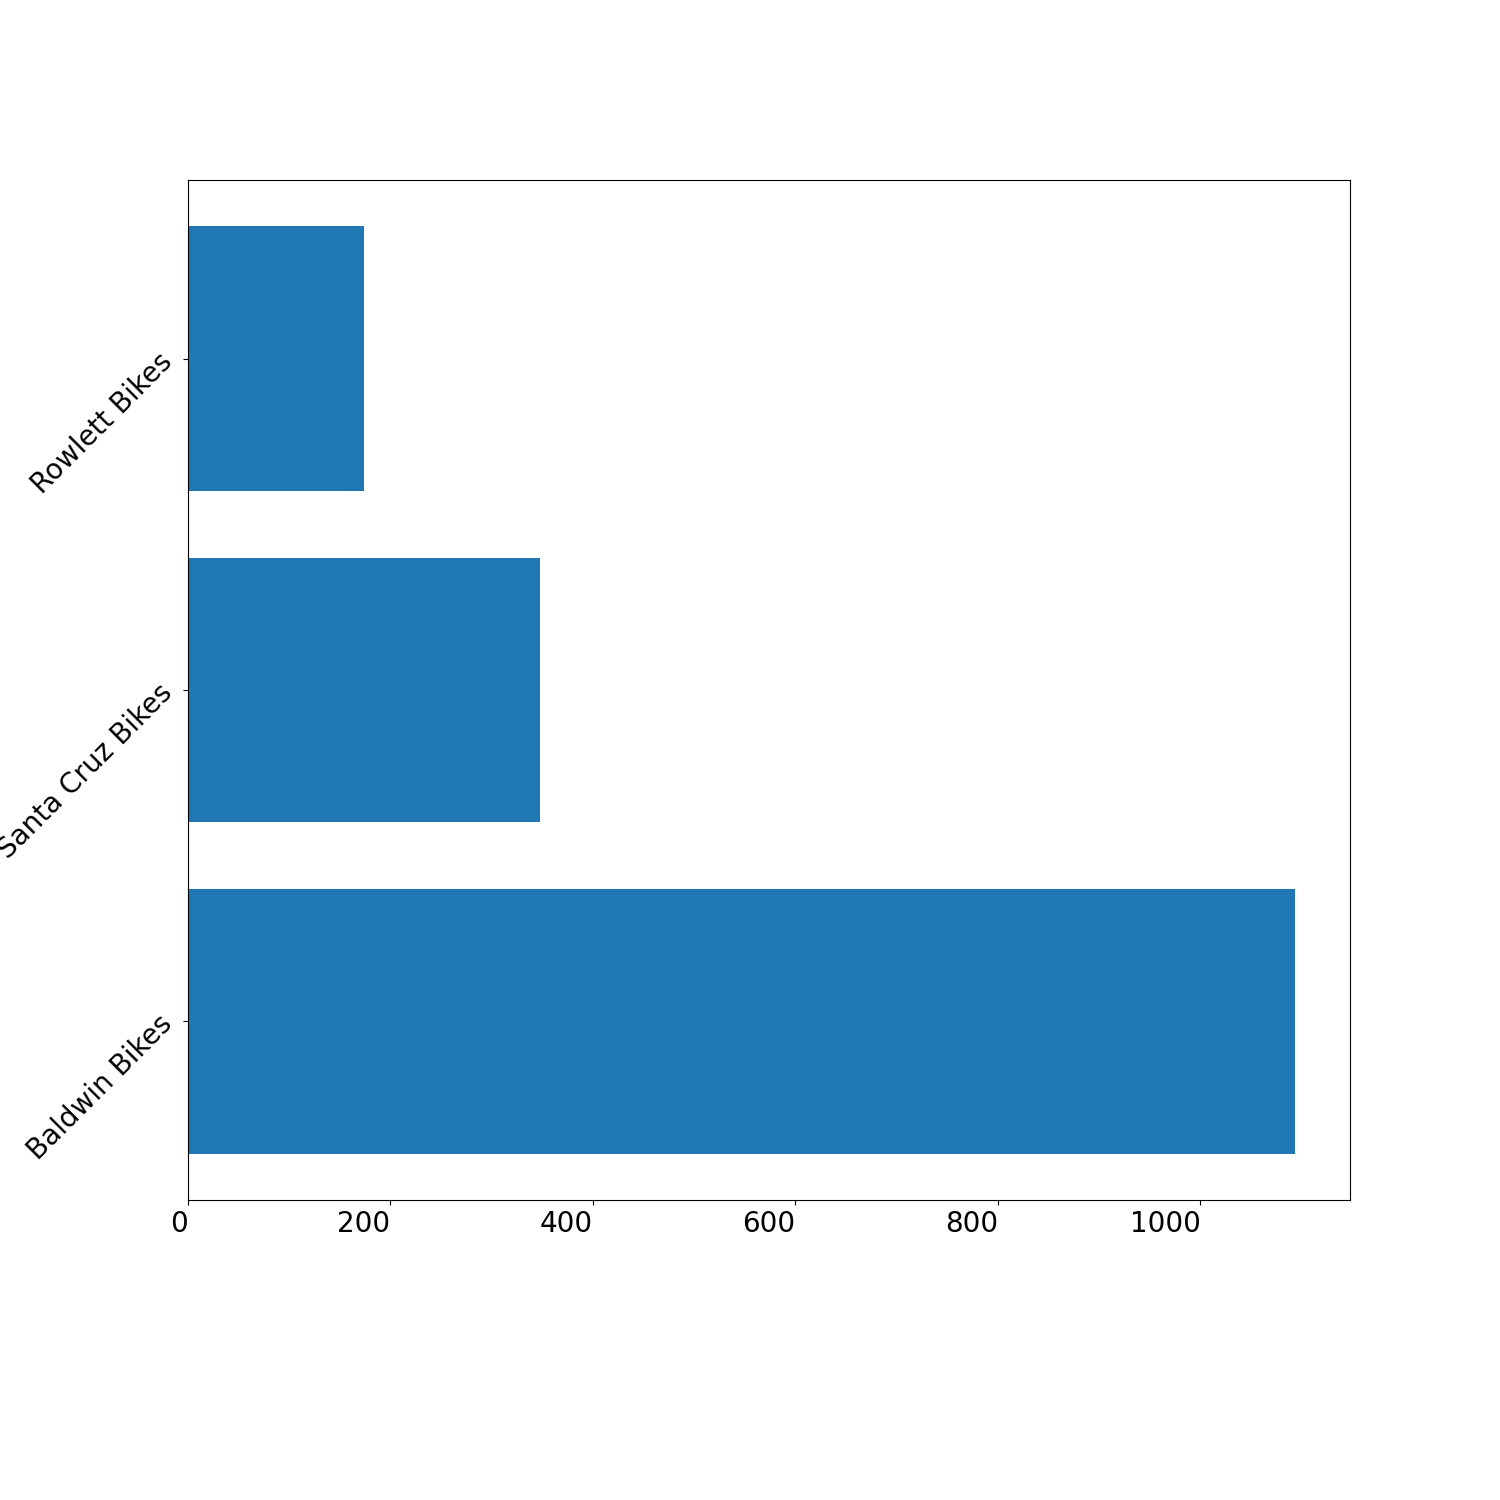
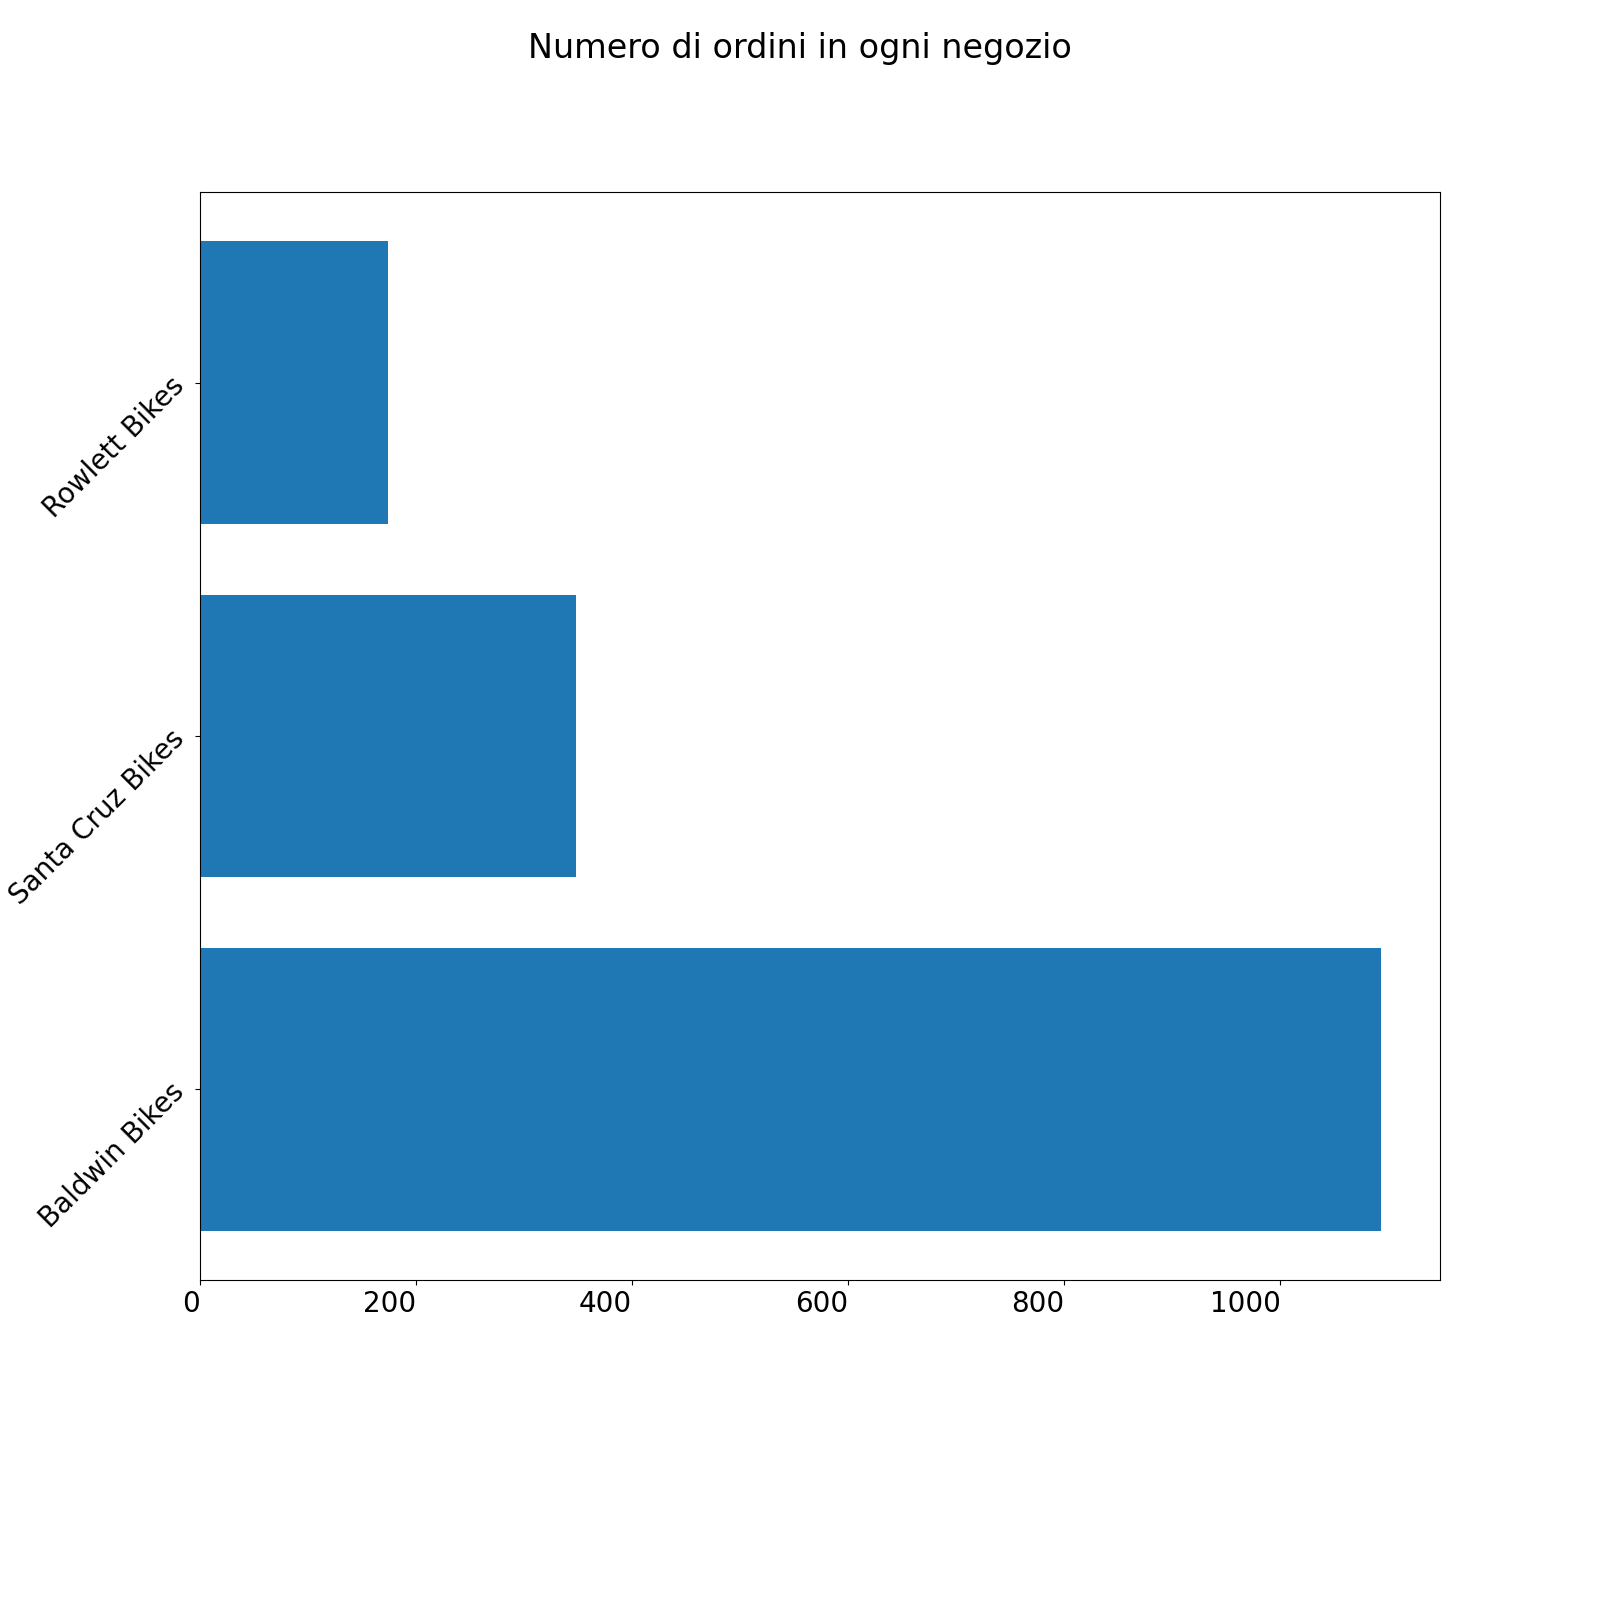
Aggiornamento

diff --git a/templates/Esercizio2/Search_Negozio.html b/templates/Esercizio2/Search_Negozio.html
@@ -10,13 +10,16 @@
 </head>
 <body class="bg-success">
     <div class="container-fluid">
-            <form action="/result_Name" method="get">
+            <img class="col-4" src={{url1}} alt="Chart" height="auto" >
+
+            <form action="/result_Negozio" method="get">
                 <div class="mb-3 mt-3">
-                    <label for="NomeProdotto" class="form-label">Nome Del Prodotto:</label>
-                    <input type="text" class="form-control" id="NomeProdotto" placeholder="Inserisci il Nome del Prodotto" name="NomeProdotto">
+                    <label for="NomeNegozio" class="form-label">Nome Del negozio:</label>
+                    <input type="text" class="form-control" id="NomeNegozio" placeholder="Inserisci il Nome del Negozio" name="NomeNegozio">
                 </div>
                 <input type="submit" value="Ricerca">
             </form>
+        </div>
     </div>
 </body>
 </html>

diff --git a/templates/Esercizio2/Search_Brand.html b/templates/Esercizio2/Search_Brand.html
@@ -10,13 +10,16 @@
 </head>
 <body class="bg-success">
     <div class="container-fluid">
-            <form action="/result_Name" method="get">
+            <img class="col-4" src={{url2}} alt="Chart" height="auto" >
+
+            <form action="/result_Brand" method="get">
                 <div class="mb-3 mt-3">
-                    <label for="NomeProdotto" class="form-label">Nome Del Prodotto:</label>
-                    <input type="text" class="form-control" id="NomeProdotto" placeholder="Inserisci il Nome del Prodotto" name="NomeProdotto">
+                    <label for="NomeBrand" class="form-label">Nome Del brand:</label>
+                    <input type="text" class="form-control" id="NomeBrand" placeholder="Inserisci il Nome del Brand" name="NomeBrand">
                 </div>
                 <input type="submit" value="Ricerca">
             </form>
+        </div>
     </div>
 </body>
 </html>

diff --git a/templates/Esercizio2/result_Brand.html b/templates/Esercizio2/result_Brand.html
@@ -1,0 +1,29 @@
+<!DOCTYPE html>
+<html lang="en">
+<head>
+    <meta charset="UTF-8">
+    <meta http-equiv="X-UA-Compatible" content="IE=edge">
+    <meta name="viewport" content="width=device-width, initial-scale=1.0">
+    <title>Document</title>
+    <link href="https://cdn.jsdelivr.net/npm/bootstrap@5.2.1/dist/css/bootstrap.min.css" rel="stylesheet">
+
+</head>
+<body>
+    <table class="table">
+        <tr>
+            {% for col in nomiColonne %}
+                <th>{{col}}</th>
+            {% endfor %}
+        </tr>
+        {% for record in dati %}
+            <tr>
+                {% for index in range(nomiColonne|length) %}
+                    <td>
+                        {{record[index]}}
+                    </td>
+                {% endfor %}
+            </tr>
+        {% endfor %}
+    </table>
+</body>
+</html>

diff --git a/templates/Esercizio2/result_Negozio.html b/templates/Esercizio2/result_Negozio.html
@@ -1,0 +1,28 @@
+<!DOCTYPE html>
+<html lang="en">
+<head>
+    <meta charset="UTF-8">
+    <meta http-equiv="X-UA-Compatible" content="IE=edge">
+    <meta name="viewport" content="width=device-width, initial-scale=1.0">
+    <title>Document</title>
+    <link href="https://cdn.jsdelivr.net/npm/bootstrap@5.2.1/dist/css/bootstrap.min.css" rel="stylesheet">
+
+</head>
+<body>
+    <table class="table">
+        <tr>
+            {% for col in nomiColonne %}
+                <th>{{col}}</th>
+            {% endfor %}
+        </tr>
+        {% for record in dati %}
+            <tr>
+                {% for index in range(nomiColonne|length) %}
+                    <td>
+                        {{record[index]}}
+                    </td>
+                {% endfor %}
+            </tr>
+        {% endfor %}
+    </table>
+</body>

diff --git a/templates/Esercizio2/Search_Category.html b/templates/Esercizio2/Search_Category.html
@@ -10,12 +10,12 @@
 </head>
 <body class="bg-success">
     <div class="container-fluid">
-            <img class="col-4" src={{url}} alt="Chart" height="auto">
+            <img class="col-4" src={{url}} alt="Chart" height="auto" >
 
             <form action="/result_Category" method="get">
                 <div class="mb-3 mt-3">
                     <label for="NomeCategory" class="form-label">Nome Della categoria:</label>
-                    <input type="text" class="form-control" id="NomeCategoty" placeholder="Inserisci il Nome della categoria" name="NomeCategory">
+                    <input type="text" class="form-control" id="NomeCategory" placeholder="Inserisci il Nome della categoria" name="NomeCategory">
                 </div>
                 <input type="submit" value="Ricerca">
             </form>

diff --git a/templates/Esercizio2/Cerca.html b/templates/Esercizio2/Cerca.html
@@ -20,8 +20,8 @@
         <label for="NomeProdotto" class="form-label">Nome Del Prodotto:</label>
         <input type="radio" name="Cerca" id="NomeProdotto" value="NomeProdotto">
         <br>
-        <label for="NomeCategoty" class="form-label">Nome Della Categoria:</label>
-        <input type="radio" name="Cerca" id="NomeCategoty" value="NomeCategoty">
+        <label for="NomeCategory" class="form-label">Nome Della Categoria:</label>
+        <input type="radio" name="Cerca" id="NomeCategory" value="NomeCategory">
         <br>
         <label for="NomeNegozio" class="form-label">Nome Del Negozio:</label>
         <input type="radio" name="Cerca" id="NomeNegozio" value="NomeNegozio">

diff --git a/App2.py b/App2.py
@@ -25,21 +25,23 @@ def home():
     df = pd.read_sql(query,conn)
     names = list(df['Category_Name'])
     values = list(df['Numero_Prodotti'])
-    fig1 = plt.figure(figsize=[15,15])
+    fig1 = plt.figure(figsize=[16,16])
     ax = plt.axes()
     ax.bar(names, values)
     fig1.autofmt_xdate(rotation=45) 
+    fig1.suptitle('Categorie di ogni prodotto', color='k')
     plt.savefig('static/images/plot.png')
 
     query1 = 'Select Store_Name, Count(*) as Numero_Ordini from Sales.Stores inner join Sales.Orders on Sales.Stores.Store_id = Sales.Orders.Store_id group by Sales.Orders.Store_id,Sales.Stores.Store_name order by Numero_Ordini desc'
     df1 = pd.read_sql(query1,conn)
     names = list(df1['Store_Name'])
     values = list(df1['Numero_Ordini'])
-    fig2 = plt.figure(figsize=[15,15])
+    fig2 = plt.figure(figsize=[16,16])
     ax = plt.axes()
     ax.barh(names, values)
     fig2.autofmt_xdate(rotation=0) 
     plt.yticks(rotation = 45)
+    fig2.suptitle('Numero di ordini in ogni negozio', color='k')
     plt.savefig('static/images/plot1.png')
     
     query2 = 'Select Brand_Name, Count(*) as Numero_Prodotti from Production.Products inner join Production.Brands on Production.Brands.Brand_id = Production.Products.Brand_id group by Production.Products.Brand_id,Production.Brands.Brand_name order by Numero_Prodotti desc'
@@ -47,10 +49,9 @@ def home():
     names = list(df2['Brand_Name'])
     values = list(df2['Numero_Prodotti'])
     plt.rcParams.update({'font.size': 20})    # Aumenta la grandezza del testo (Default: 10)
-    fig3 = plt.figure(figsize=[15,15])
+    fig3 = plt.figure(figsize=[16,16])
     ax = plt.axes()
     ax.pie(values, labels=names, startangle=90, autopct='%1.1f%%')#grafico a torta
-    
     fig3.suptitle('Numeri prodotti per ogni brand', color='k')
     plt.savefig('static/images/plot2.png')
     
@@ -62,7 +63,7 @@ def Cerca():
   Cerca = request.args['Cerca']
   if Cerca == 'NomeProdotto':
     return render_template('Esercizio2/Search_Name.html')
-  if Cerca == 'NomeCategoty':
+  if Cerca == 'NomeCategory':
     return render_template('Esercizio2/Search_Category.html', url='/static/images/plot.png')
   if Cerca == 'NomeNegozio':
     return render_template('Esercizio2/Search_Negozio.html', url1='/static/images/plot1.png')
@@ -96,6 +97,32 @@ def result_Category():
   # Visualizzare le informazione.
   df_Prodotti
   return render_template('Esercizio2/result_Category.html', nomiColonne = df_Prodotti.columns.values, dati = list(df_Prodotti.values.tolist()))
+
+@app.route('/result_Negozio', methods=['GET'])
+def result_Negozio():
+  # Collegamento al database
+  
+  conn = pymssql.connect(server='213.140.22.237\SQLEXPRESS', user='song.alfio', password='xxx123##', database='song.alfio')  
+  # Invio Query al database e ricezione informazioni
+  Nome_Negozio = request.args['NomeNegozio']
+  query = f"Select Store_Name, Count(*) as Numero_Ordini from Sales.Stores inner join Sales.Orders on Sales.Stores.Store_id = Sales.Orders.Store_id group by Sales.Orders.Store_id,Sales.Stores.Store_name having Store_name like '{Nome_Negozio}%'"
+  df_Prodotti = pd.read_sql(query,conn)
+  # Visualizzare le informazione.
+  df_Prodotti
+  return render_template('Esercizio2/result_Negozio.html', nomiColonne = df_Prodotti.columns.values, dati = list(df_Prodotti.values.tolist()))
+
+@app.route('/result_Brand', methods=['GET'])
+def result_Brand():
+  # Collegamento al database
+  
+  conn = pymssql.connect(server='213.140.22.237\SQLEXPRESS', user='song.alfio', password='xxx123##', database='song.alfio')  
+  # Invio Query al database e ricezione informazioni
+  Nome_Brand = request.args['NomeBrand']
+  query = f"Select Brand_Name, Count(*) as Numero_Prodotti from Production.Products inner join Production.Brands on Production.Brands.Brand_id = Production.Products.Brand_id group by Production.Products.Brand_id,Production.Brands.Brand_name having Brand_name like '{Nome_Brand}%'"
+  df_Prodotti = pd.read_sql(query,conn)
+  # Visualizzare le informazione.
+  df_Prodotti
+  return render_template('Esercizio2/result_Brand.html', nomiColonne = df_Prodotti.columns.values, dati = list(df_Prodotti.values.tolist()))
 
 
 if __name__ == '__main__':
